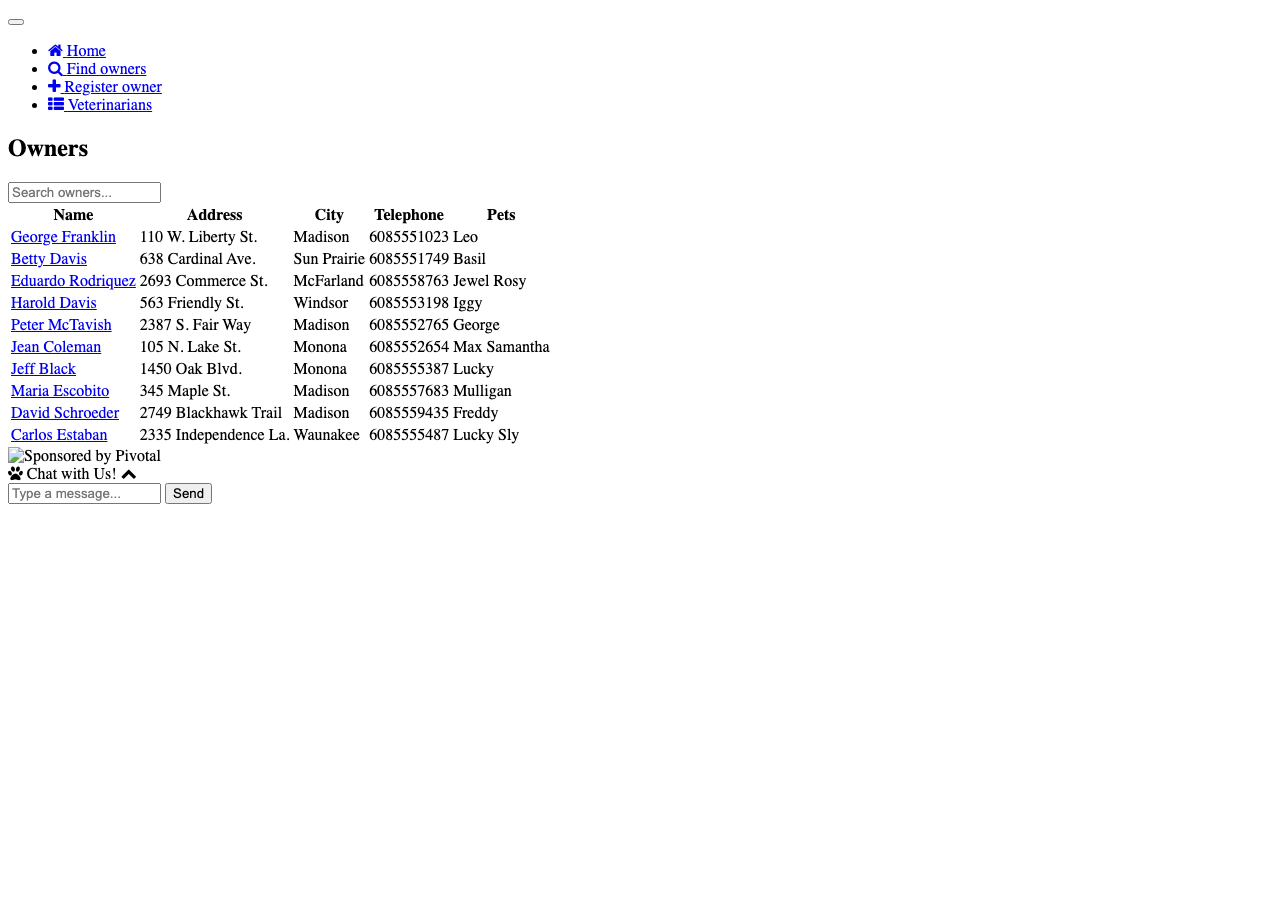
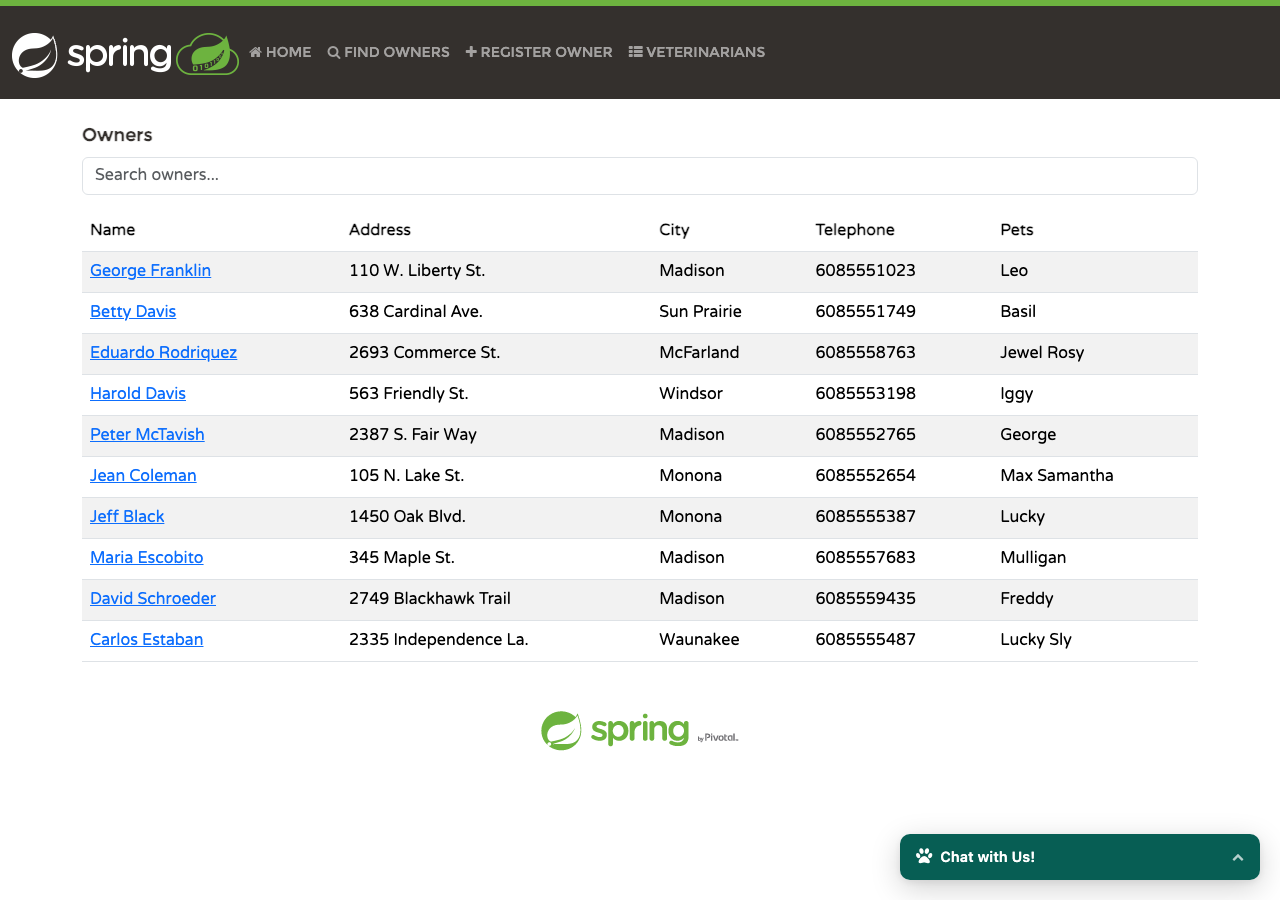
Update screenshots with fully styled Docker Compose app
Replace unstyled screenshots with fully styled versions captured
from the running Docker Compose stack. Screenshots now show Bootstrap
CSS, Spring Petclinic theme, pet images, styled navbar, and the
Chat with Us widget — matching the original Java application's look.

diff --git a/scripts/capture_screenshots.py b/scripts/capture_screenshots.py
@@ -1,75 +1,90 @@
-"""Capture screenshots of the running Petclinic application using Playwright."""
+"""Capture fully-styled screenshots of the running Petclinic application using Playwright."""
 
 import asyncio
+import sys
+from pathlib import Path
+
 from playwright.async_api import async_playwright
 
 
-async def capture():
+SCREENSHOTS_DIR = Path("docs/screenshots")
+BASE_URL = "http://localhost:8080"
+
+PAGES = [
+    {
+        "name": "01-welcome-page",
+        "url": "/",
+        "full_page": False,
+        "description": "Welcome / Home page",
+    },
+    {
+        "name": "02-owners-list",
+        "url": "/owners",
+        "full_page": True,
+        "description": "Owners list (all 10 owners)",
+    },
+    {
+        "name": "03-owner-detail",
+        "url": "/owners/details/1",
+        "full_page": True,
+        "description": "Owner detail - George Franklin",
+    },
+    {
+        "name": "04-vets-list",
+        "url": "/vets",
+        "full_page": True,
+        "description": "Veterinarians list",
+    },
+    {
+        "name": "05-new-owner-form",
+        "url": "/owners/new",
+        "full_page": False,
+        "description": "Register new owner form",
+    },
+    {
+        "name": "06-add-pet-form",
+        "url": "/owners/1/new-pet",
+        "full_page": False,
+        "description": "Add pet form (owner 1)",
+    },
+    {
+        "name": "07-add-visit-form",
+        "url": "/owners/1/pets/1/visits",
+        "full_page": False,
+        "description": "Add visit form (owner 1, pet 1)",
+    },
+]
+
+
+async def capture() -> None:  # noqa: ANN201
+    """Capture screenshots of all key pages."""
+    SCREENSHOTS_DIR.mkdir(parents=True, exist_ok=True)
+
     async with async_playwright() as p:
         browser = await p.chromium.launch()
         page = await browser.new_page(viewport={"width": 1280, "height": 900})
 
-        # 1. Welcome page
-        print("Capturing 01-welcome-page...")
-        await page.goto("http://localhost:8080/")
-        await page.wait_for_load_state("networkidle")
-        await page.screenshot(
-            path="docs/screenshots/01-welcome-page.png", full_page=False
-        )
+        for entry in PAGES:
+            url = f"{BASE_URL}{entry['url']}"
+            output_path = SCREENSHOTS_DIR / f"{entry['name']}.png"
+            print(f"Capturing {entry['name']} ({entry['description']})...")  # noqa: T201
+            print(f"  URL: {url}")  # noqa: T201
 
-        # 2. Owners list
-        print("Capturing 02-owners-list...")
-        await page.goto("http://localhost:8080/owners")
-        await page.wait_for_load_state("networkidle")
-        await asyncio.sleep(2)  # wait for data to load
-        await page.screenshot(
-            path="docs/screenshots/02-owners-list.png", full_page=True
-        )
-
-        # 3. Owner detail (owner 1 - George Franklin)
-        print("Capturing 03-owner-detail...")
-        await page.goto("http://localhost:8080/owners/details/1")
-        await page.wait_for_load_state("networkidle")
-        await asyncio.sleep(2)
-        await page.screenshot(
-            path="docs/screenshots/03-owner-detail.png", full_page=True
-        )
-
-        # 4. Vets list
-        print("Capturing 04-vets-list...")
-        await page.goto("http://localhost:8080/vets")
-        await page.wait_for_load_state("networkidle")
-        await asyncio.sleep(2)
-        await page.screenshot(
-            path="docs/screenshots/04-vets-list.png", full_page=True
-        )
-
-        # 5. New Owner form
-        print("Capturing 05-new-owner-form...")
-        await page.goto("http://localhost:8080/owners/new")
-        await page.wait_for_load_state("networkidle")
-        await page.screenshot(
-            path="docs/screenshots/05-new-owner-form.png", full_page=False
-        )
-
-        # 6. Add Pet form (for owner 1)
-        print("Capturing 06-add-pet-form...")
-        await page.goto("http://localhost:8080/owners/1/new-pet")
-        await page.wait_for_load_state("networkidle")
-        await page.screenshot(
-            path="docs/screenshots/06-add-pet-form.png", full_page=False
-        )
-
-        # 7. Add Visit form (for owner 1, pet 1)
-        print("Capturing 07-add-visit-form...")
-        await page.goto("http://localhost:8080/owners/1/pets/1/visits")
-        await page.wait_for_load_state("networkidle")
-        await page.screenshot(
-            path="docs/screenshots/07-add-visit-form.png", full_page=False
-        )
+            try:
+                await page.goto(url, wait_until="networkidle", timeout=30000)
+                # Extra wait for CSS/JS to fully render
+                await asyncio.sleep(3)
+                await page.screenshot(
+                    path=str(output_path),
+                    full_page=entry["full_page"],
+                )
+                print(f"  Saved: {output_path}")  # noqa: T201
+            except Exception as exc:  # noqa: BLE001
+                print(f"  ERROR capturing {entry['name']}: {exc}")  # noqa: T201
 
         await browser.close()
-        print("All screenshots captured successfully!")
+        print("\nAll screenshots captured successfully!")  # noqa: T201
 
 
-asyncio.run(capture())
+if __name__ == "__main__":
+    asyncio.run(capture())
